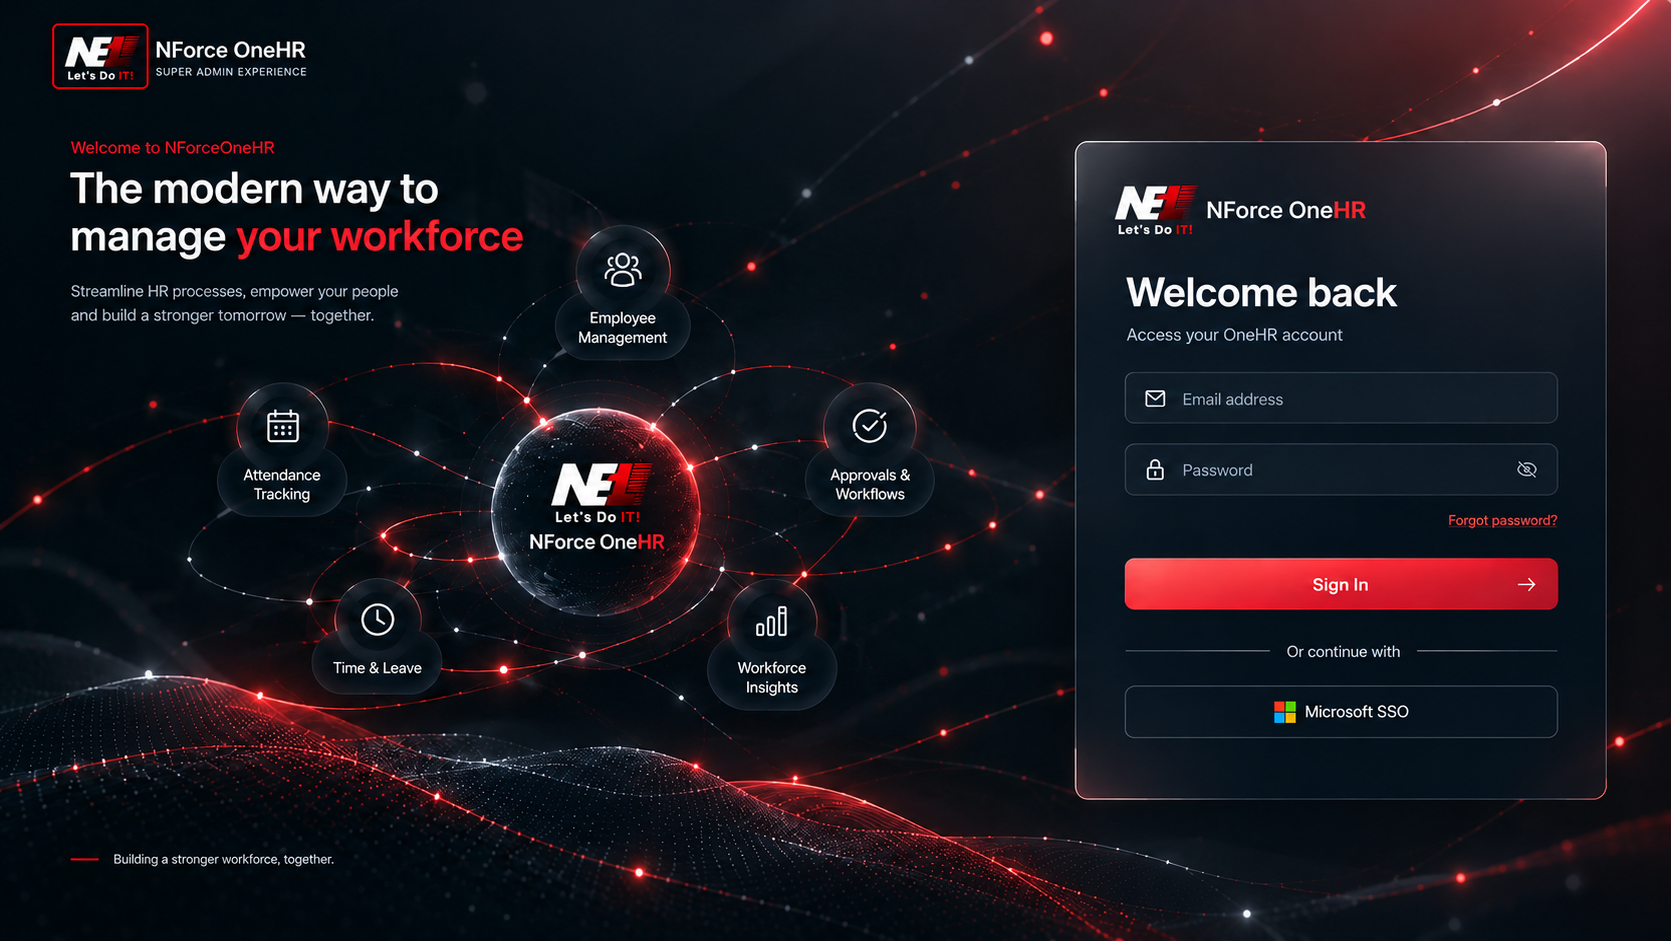
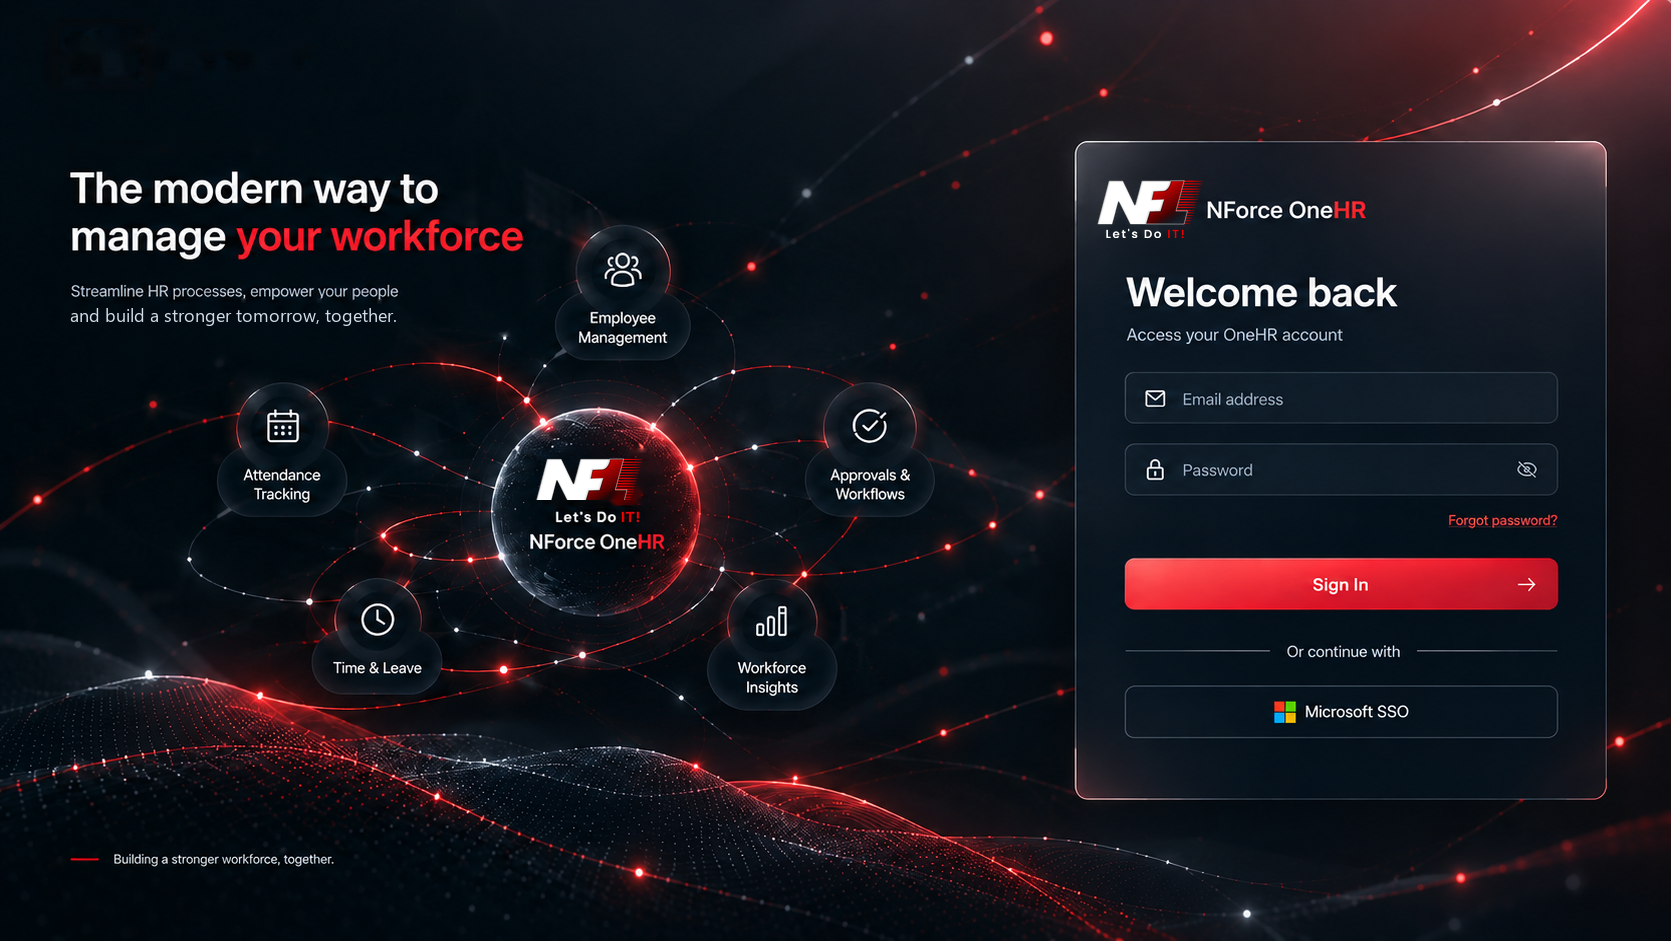
Redesign Login experience

diff --git a/frontend/src/pages/auth/Login.tsx b/frontend/src/pages/auth/Login.tsx
@@ -115,45 +115,37 @@ interface ImageLoginProps {
   submitting: boolean; locked: boolean; onSubmit: (e: React.FormEvent) => void;
 }
 
-// Full-viewport (100vw x 100dvh, no scrollbar) rendering of login-reference.png
-// as a two-layer composition:
-//   Layer 1 — a cover-scaled, blurred/darkened copy of the same artwork,
-//     filling the entire viewport edge-to-edge purely to blend away any
-//     letterbox margin (never shown crisply, never the thing being measured
-//     against, so its own cover-crop doesn't matter).
-//   Layer 2 — the actual artwork, uniformly scaled (no independent X/Y
-//     stretch) at its true 1671:941 ratio and centered — this is what stays
-//     visually identical to the fullscreen case at every viewport size.
-// Interactive overlays are positioned as percentages of Layer 2's box only,
-// so they scale and move together with the real artwork, never with the
-// viewport directly. The account-lockout state from the parent is wired in
-// here (disabled fields, a locked banner in place of the generic error, the
-// Forgot Password link hidden) so the security behavior survives this
-// visual layer exactly as it works in the fallback card below.
+// Full-viewport (100vw x 100dvh, no scrollbar) rendering of login-reference.png. The frame is sized
+// with CSS max() rather than min()/max-width — i.e. "cover" instead of "contain" — so it always
+// scales up to fully cover BOTH viewport dimensions at once. Because aspectRatio stays fixed at
+// 1671/941, that scale-up is perfectly uniform (no stretching, no distortion): on a viewport
+// proportionally wider than the artwork, the frame overflows vertically instead of leaving empty
+// space on the sides, and the outer wrapper's overflow:hidden trims that overflow symmetrically
+// (top and bottom, centered) — the same amount off each edge, so it only ever eats into the
+// artwork's own outer/background margin, never shifting the vertically-centered card/hero/globe.
+// FIELD_RECT's percentages stay exactly correct because they're relative to this same box, which
+// is still the artwork's true, undistorted aspect ratio — just larger than the viewport, not
+// letterboxed to fit inside it.
+// Interactive overlays are positioned as percentages of that box only, so they scale and move
+// together with it, never with the viewport directly. The account-lockout state from the parent is
+// wired in here (disabled fields, a locked banner in place of the generic error, the Forgot
+// Password link hidden) so the security behavior survives this visual layer exactly as it works in
+// the fallback card below.
 function ImageLogin({
   lockedMessage, hasError, error, errorId, email, setEmail, emailId, emailRef,
   password, setPassword, passId, showPass, setShowPass, submitting, locked, onSubmit,
 }: ImageLoginProps) {
   const bannerMessage = lockedMessage ?? (hasError ? error : null);
+  // Shared by the password input and its show/hide toggle button so the two sit on one
+  // continuous background instead of the toggle's own fixed shade showing as a seam.
+  const passwordFieldBg = password ? 'rgb(16,28,38)' : 'transparent';
   return (
     <div style={{ position: 'relative', width: '100vw', height: '100dvh', overflow: 'hidden', background: '#060608' }}>
-      <img
-        aria-hidden="true"
-        src={loginReference}
-        draggable={false}
-        style={{
-          position: 'absolute', inset: -40, width: 'calc(100% + 80px)', height: 'calc(100% + 80px)',
-          objectFit: 'cover', filter: 'blur(60px) brightness(0.5) saturate(1.15)',
-          userSelect: 'none', pointerEvents: 'none',
-        }}
-      />
-      <div aria-hidden="true" style={{ position: 'absolute', inset: 0, background: 'rgba(6,7,10,.35)' }} />
-
       <div style={{ position: 'absolute', inset: 0, display: 'flex', alignItems: 'center', justifyContent: 'center' }}>
         <div
           className="nf-login-frame"
           style={{
-            position: 'relative', width: '100%', maxWidth: 'calc(100dvh * 1671 / 941)', aspectRatio: '1671 / 941',
+            position: 'relative', width: 'max(100%, calc(100dvh * 1671 / 941))', aspectRatio: '1671 / 941',
             boxShadow: '0 40px 120px rgba(0,0,0,.55)',
           }}
         >
@@ -196,7 +188,17 @@ function ImageLogin({
                 // baked-in placeholder so the two don't overlap/garble.
                 background: email ? 'rgb(16,28,38)' : 'transparent',
                 border: 'none', outline: 'none', boxSizing: 'border-box',
-                color: '#fff', fontSize: 15, fontFamily: 'Inter, sans-serif', padding: '0 2% 0 8%',
+                // Percentage padding always resolves against the containing block's width (this
+                // element's positioning ancestor, i.e. roughly the full frame), never against the
+                // element's own computed width, so it has to be re-based as
+                // <fraction-of-FIELD_RECT.email.width> * FIELD_RECT.email.width to land at the
+                // right visual inset. That fraction (13.63%) is measured directly from the baked
+                // artwork itself: the mail icon plus its gap to the "Email address" placeholder's
+                // left edge spans pixels 0-59 of the field's 433px-wide row in login-reference.png
+                // (67.32%..93.23% of the 1671px-wide source at its placeholder's own vertical
+                // center) — 59/433 ≈ 13.63%. This still scales with the frame like every other
+                // FIELD_RECT-driven value.
+                color: '#fff', fontSize: 15, fontFamily: 'Inter, sans-serif', padding: '0 0.52% 0 3.53%',
                 opacity: locked ? 0.55 : 1, cursor: locked ? 'not-allowed' : 'text',
               }}
             />
@@ -209,9 +211,11 @@ function ImageLogin({
               aria-invalid={hasError} aria-describedby={bannerMessage ? errorId : undefined}
               style={{
                 ...rectStyle(FIELD_RECT.password),
-                background: password ? 'rgb(16,28,38)' : 'transparent',
+                background: passwordFieldBg,
                 border: 'none', outline: 'none', boxSizing: 'border-box',
-                color: '#fff', fontSize: 15, fontFamily: 'Inter, sans-serif', padding: '0 4% 0 8%',
+                // Same containing-block-vs-own-width padding fix as the email input above — the
+                // lock icon measures to the same 13.63% inset in the artwork.
+                color: '#fff', fontSize: 15, fontFamily: 'Inter, sans-serif', padding: '0 1.04% 0 3.53%',
                 opacity: locked ? 0.55 : 1, cursor: locked ? 'not-allowed' : 'text',
               }}
             />
@@ -220,12 +224,21 @@ function ImageLogin({
               disabled={locked}
               style={{
                 ...rectStyle(FIELD_RECT.toggle),
-                background: '#12141a', border: 'none', cursor: locked ? 'not-allowed' : 'pointer', color: 'var(--txt-dim)',
+                // Matches the password input's own background exactly (rather than a fixed shade)
+                // so the two sit flush with no visible seam, in every state.
+                background: passwordFieldBg,
+                border: 'none', cursor: locked ? 'not-allowed' : 'pointer', color: 'var(--txt-dim)',
                 display: 'flex', alignItems: 'center', justifyContent: 'center', padding: 0,
                 opacity: locked ? 0.55 : 1,
               }}
             >
-              {showPass ? <EyeOff size={16} aria-hidden="true" /> : <Eye size={16} aria-hidden="true" />}
+              {/* The reference artwork already bakes a static eye-off glyph into this exact spot,
+                  visible through this button while its background is transparent (empty field) —
+                  rendering our own icon there too is what doubled it up. Once the field has a
+                  value, this button's background turns opaque (see passwordFieldBg) and covers
+                  that baked glyph entirely, so only then do we render our own icon — keeping
+                  exactly one eye visible in both states, not two. */}
+              {password && (showPass ? <EyeOff size={16} aria-hidden="true" /> : <Eye size={16} aria-hidden="true" />)}
             </button>
 
             {!locked && (
